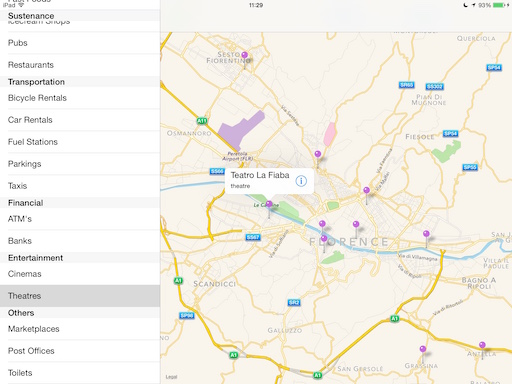
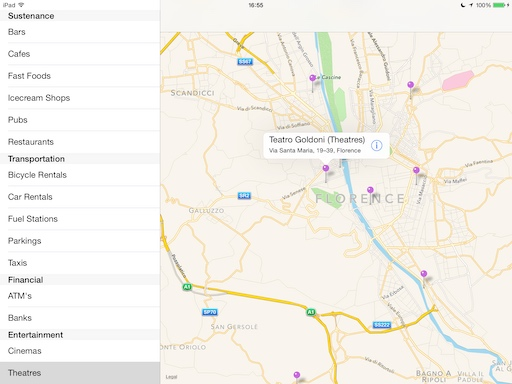
Improved callouts' information layout. Improved Italian translation.

diff --git a/AmenityHunter/AmenityMapViewController.m b/AmenityHunter/AmenityMapViewController.m
@@ -262,13 +262,19 @@
         elementLongitude = [element valueForKey:@"lon"];
 
         elementName = [element valueForKeyPath:@"tags.name"];
-        elementType = [element valueForKeyPath:@"tags.amenity"];
+        elementType = NSLocalizedString([element valueForKeyPath:@"tags.amenity"], nil);
 
         annotation = [[AmenityAnnotation alloc] initWithLatitude:[elementLatitude doubleValue]
                                                        Longitude:[elementLongitude doubleValue]];
 
-        annotation.title = elementName ? elementName : elementType;
-        annotation.subtitle = elementName ? elementType : nil;
+        if (elementName)
+        {
+            annotation.title = [NSString stringWithFormat:@"%@ (%@)", elementName, elementType];
+        }
+        else
+        {
+            annotation.title = [NSString stringWithFormat:@"%@", elementType];
+        }
 
         [self.mapAmenityAnnotations addObject:annotation];
     }
@@ -292,7 +298,7 @@
     }
 }
 
-- (void)reverseGeocodeAnnotation:(MKPointAnnotation *)annotation
+- (void)reverseGeocodeAnnotation:(AmenityAnnotation *)annotation
 {
     [self.sharedNetworkIndicatorManager networkActivityDidStart];
 
@@ -310,21 +316,24 @@
 
                  if (!error)
                  {
-                     NSString *city, *street = @"";
+                     NSString *address = @"";
 
                      CLPlacemark *placemark = [placemarks lastObject];
 
-                     if (placemark.locality)
-                     {
-                         city = [@"" stringByAppendingFormat:@"%@", placemark.locality];
-                     }
-
                      if (placemark.thoroughfare)
                      {
-                         street = [@"" stringByAppendingFormat:@"%@", placemark.thoroughfare];
+                         address = [address stringByAppendingFormat:@"%@, ", placemark.thoroughfare];
                      }
 
-                     NSString *address = [@"" stringByAppendingFormat:@"%@, %@", street, city];
+                     if (placemark.subThoroughfare)
+                     {
+                         address = [address stringByAppendingFormat:@"%@, ", placemark.subThoroughfare];
+                     }
+
+                     if (placemark.locality)
+                     {
+                         address = [address stringByAppendingFormat:@"%@", placemark.locality];
+                     }
 
                      annotation.subtitle = address;
                  }

diff --git a/AmenityHunter/SharedNetworkIndicatorManager.m b/AmenityHunter/SharedNetworkIndicatorManager.m
@@ -20,6 +20,14 @@
 
 @import UIKit;
 
+@interface SharedNetworkIndicatorManager ()
+
+#pragma mark - PROPERTIES
+
+@property(nonatomic) NSInteger networkActivitiesCount;
+
+@end
+
 @implementation SharedNetworkIndicatorManager
 
 #pragma mark - ACCESSORS

diff --git a/AmenityHunter/SharedNetworkIndicatorManager.h b/AmenityHunter/SharedNetworkIndicatorManager.h
@@ -20,10 +20,6 @@
 
 @interface SharedNetworkIndicatorManager : NSObject
 
-#pragma mark - PUBLIC PROPERTIES
-
-@property(nonatomic) NSInteger networkActivitiesCount;
-
 #pragma mark - PUBLIC METHODS
 
 - (void)networkActivityDidStart;
